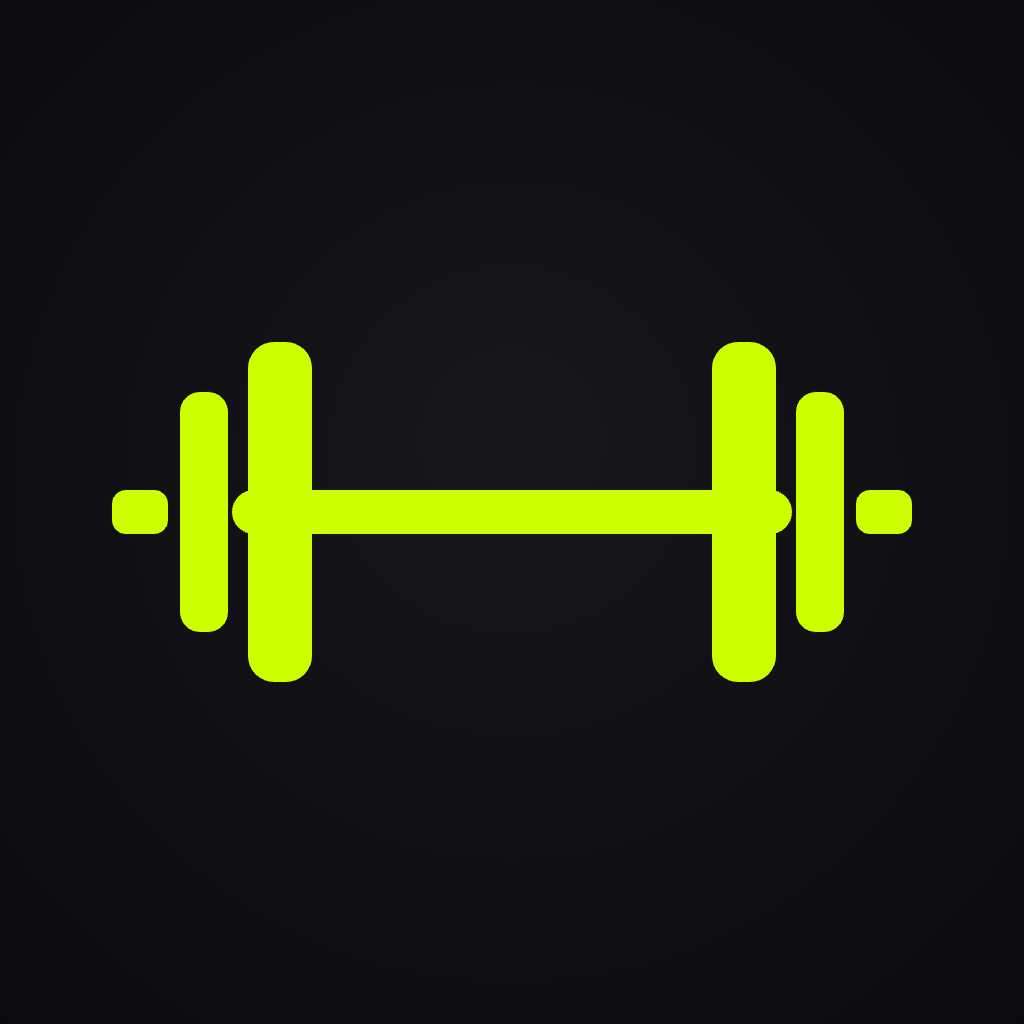
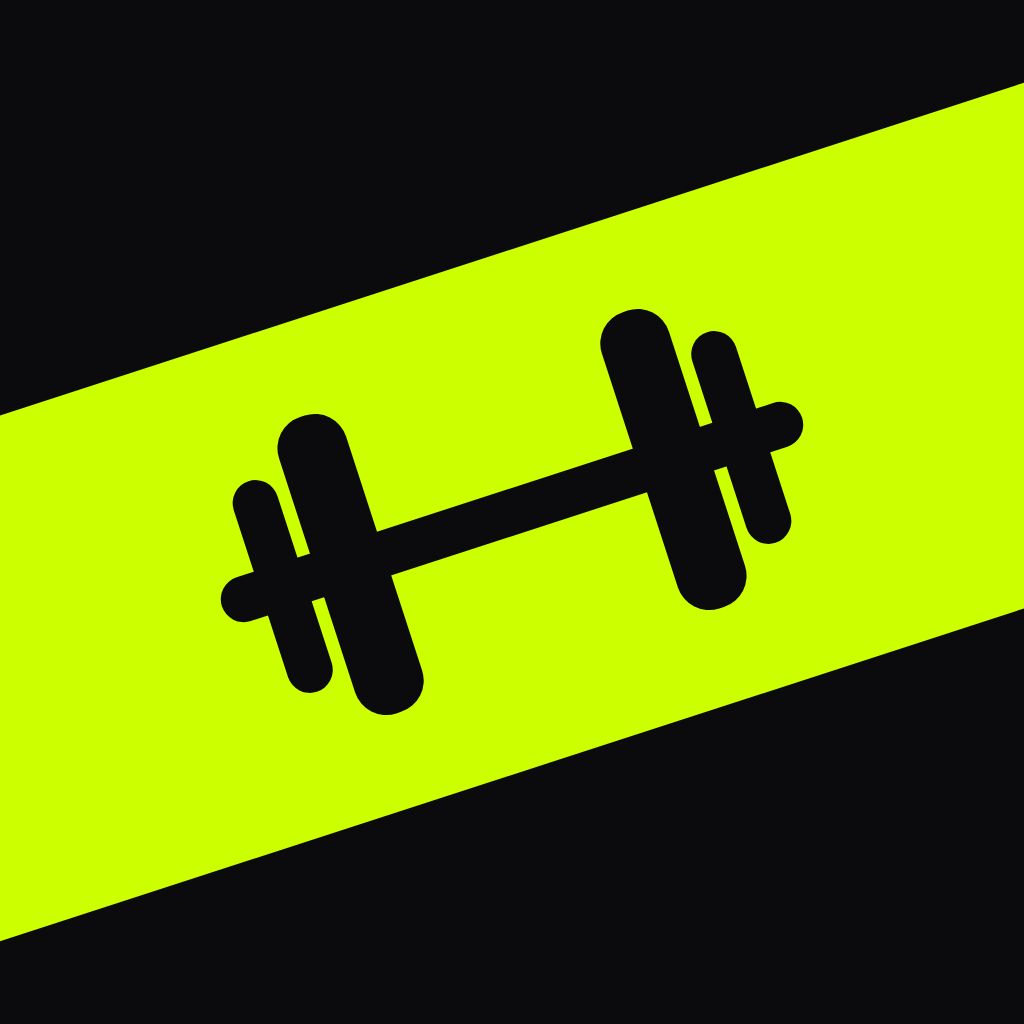
v0.45.0 : widget Régularité — objectif de la semaine envoyé au widget (une séance par routine, comme Stats) et textes de la grille annotée (lettres des jours, 8 dernières semaines, date, pourcentage) ; nouvelle icône Bandeau (site) ; 1 test

diff --git a/Barlog.dc.html b/Barlog.dc.html
@@ -3096,19 +3096,21 @@ class Component extends DCLogic {
     const from30 = new Date(t0.getFullYear(), t0.getMonth(), t0.getDate() - 29).getTime(), bl = bws[bws.length - 1];
     const v = { u: kgU ? 'kg' : 'lb', bu: bU === 'kg' ? 'kg' : 'lb',
       hist: [...seen].sort((a, b) => a - b),
+      // Objectif de la semaine, comme dans Stats : une séance par routine (au moins 1).
+      goal: Math.max(1, (s.routines || []).length),
       rec: recs.slice(0, 3).map(r => [r.name, r.t, liftW(r.w), r.r]),
       e1Week: iso(mon), e1: [...ex.map(x => [x.name, x.wk.map(e => e == null ? null : liftE(e)), [liftW(x.top.w), x.top.r]]), ...prog.map(n => [n, []])].slice(0, 150),
       musWeek: iso(mon), mus: G.map((g, i) => [fr ? g[1] : g[2], mus[i]]).sort((a, b) => b[1] - a[1]),
       bw: bws.filter(b => b.date >= from30).map(b => [b.date, bwV(b.w)]), bwLast: bl ? [bl.date, bwV(bl.w)] : null,
       tx: fr ? { unlock: 'Touche pour débloquer', dec: ',', wk1: '{n} semaine', wkN: '{n} semaines', wkS: '{n} sem.', stS: '{n} sem. d’affilée', myWeek: 'Ma semaine', streak: 'Série',
-        reg: 'Régularité', reg20: '20 dernières semaines', sess: 'séances', perWk: 'par semaine', stL: 'semaines d’affilée', perWkT: 'Séances par semaine',
+        reg: 'Régularité', goalS: 'Objectif {n} / sem.', thisWk: 'cette semaine', perWk: 'par semaine', stL: 'semaines d’affilée', last8: '8 dernières semaines', dm: '{d} {m}', pct: '{n}\u202F%',
         mon: ['janv.', 'févr.', 'mars', 'avr.', 'mai', 'juin', 'juil.', 'août', 'sept.', 'oct.', 'nov.', 'déc.'],
         e1: '1RM est.', e1In: '{d} en 12 sem.', best: 'Meilleure série', ago12: 'il y a 12 sem.', now: 'auj.',
         rec: 'Record', recs: 'Derniers records', reps1: '× {n} répétition', repsN: '× {n} répétitions', agoS: 'il y a {n} j',
         musT: 'Séries cette semaine', bw: 'Poids', bwIn: '{d} en 30 jours',
         e10: 'Fais une séance avec charges', rec0: 'Bats un record pour le voir ici', bw0: 'Note ta première pesée', none: 'Pas encore de données' }
         : { unlock: 'Tap to unlock', dec: '.', wk1: '{n} week', wkN: '{n} weeks', wkS: '{n} wk', stS: '{n}-wk streak', myWeek: 'My week', streak: 'Streak',
-        reg: 'Consistency', reg20: 'Last 20 weeks', sess: 'workouts', perWk: 'per week', stL: 'week streak', perWkT: 'Workouts per week',
+        reg: 'Consistency', goalS: 'Goal {n}/wk', thisWk: 'this week', perWk: 'per week', stL: 'week streak', last8: 'Last 8 weeks', dm: '{m} {d}', pct: '{n}%',
         mon: ['Jan', 'Feb', 'Mar', 'Apr', 'May', 'Jun', 'Jul', 'Aug', 'Sep', 'Oct', 'Nov', 'Dec'],
         e1: 'Est. 1RM', e1In: '{d} in 12 wk', best: 'Best set', ago12: '12 wk ago', now: 'now',
         rec: 'PR', recs: 'Latest PRs', reps1: '× {n} rep', repsN: '× {n} reps', agoS: '{n}d ago',

diff --git a/CHANGELOG.md b/CHANGELOG.md
@@ -5,12 +5,14 @@ Format : MAJEUR.MINEUR.CORRECTIF (ex. 0.4.1)
 - MINEUR : nouvelle fonctionnalité
 - MAJEUR : 1.0 = première version publique sur l'App Store
 
-## 0.45.0 — en cours (widgets)
+## 0.45.0 — 2026-11-12
+- Nouvelle icône (« Bandeau ») sur iPhone, Android et le site, et les 6 icônes de couleur de Barlog Pro sur iPhone.
 - Widgets : l’app prépare les données des nouveaux widgets (régularité sur 20 semaines, derniers records, 1RM estimé sur 12 semaines des exercices faits récemment et de tous ceux de tes programmes, séries par muscle de la semaine, pesées des 30 derniers jours), dans ton unité et ta langue. Tout reste sur le téléphone : rien n’est envoyé sur Internet.
 - Page Barlog Pro : « Widgets écran d’accueil et verrouillé » (iPhone) et « Widgets écran d’accueil » (Android) remplacent « Bientôt : widget ».
 - iPhone : toucher un widget Pro sans Barlog Pro ouvre la page Pro, comme sur Android.
 - iPhone : 7 widgets pour l’écran d’accueil (Prochaine séance — gratuit —, Ma semaine, Régularité, Progression d’un exercice au choix parmi tous ceux de tes programmes, Derniers records, Muscles de la semaine, Poids corporel) et 4 pour l’écran verrouillé (prochaine séance, semaine, série, ligne au-dessus de l’heure). Ils se mettent à jour seuls à minuit. Sans Barlog Pro : tes données floutées avec un cadenas.
 - Android : les mêmes 7 widgets pour l’écran d’accueil, aux couleurs et polices de l’app. Agrandis Régularité, Progression ou Derniers records pour en voir plus ; l’exercice de Progression se choisit en posant le widget (et dans ses réglages à partir d’Android 12). Ils se mettent à jour seuls à minuit. Sans Barlog Pro : tes données floutées avec un cadenas. Les deux widgets déjà posés deviennent « Prochaine séance », désormais gratuit, et « Ma semaine ».
+- Widget Régularité (iPhone et Android) : la lettre de chaque jour devant les lignes, les mois au-dessus et le nombre de séances sous chaque semaine, dans la couleur de l’app quand l’objectif est atteint (une séance par routine de ton programme, comme dans Stats). En grand : cette semaine en séances et en pourcentage de l’objectif, et les 8 dernières semaines en jauges (pourcentage, séances, date du lundi).
 
 ## 0.44.1 — 2026-11-06
 - Confidentialité : RevenueCat (qui vérifie les achats Barlog Pro) n’est contacté que si tu ouvres la page Barlog Pro, touches « Restaurer mes achats » ou as déjà Barlog Pro. Sans compte et sans achat, rien ne quitte ton téléphone, comme avant.
